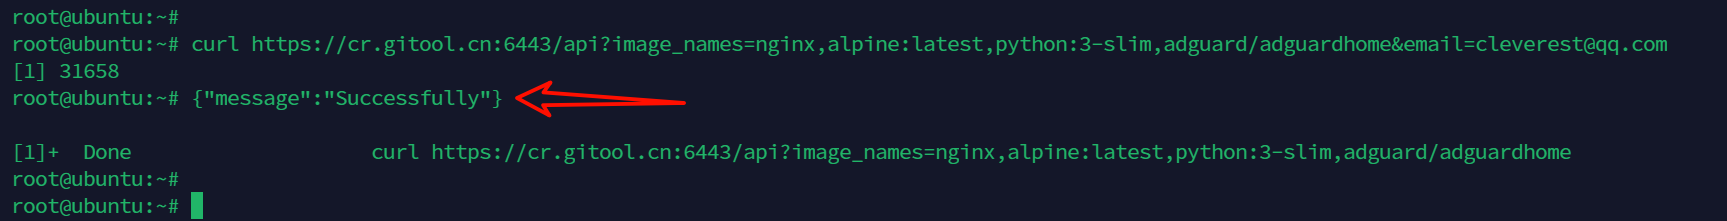
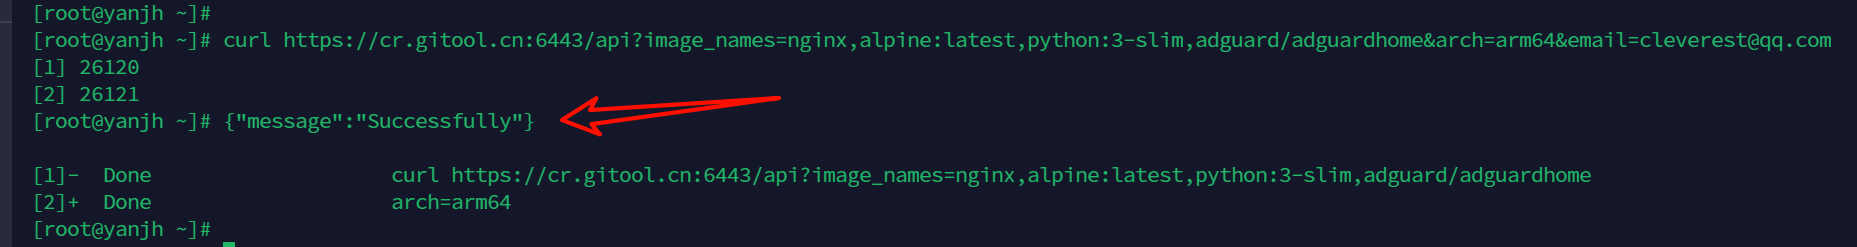
新增指定镜像系统架构拉取功能

diff --git a/README.md b/README.md
@@ -8,7 +8,8 @@
 
 - **自动同步镜像：** 流水线任务根据 **`docs/images.txt`** 文件中的镜像列表，自动将 Docker 镜像同步到阿里云 ACR。
 - **定时触发或文件修改触发：** 可以通过定时任务或者在提交时修改了 **`docs/images.txt`** 来触发流水线。
-- **邮件通知：** 可选功能，流水线执行完成后，发送同步结果，通知指定的收件人。
+- **指定镜像架构拉取：**可选功能，创建 **`docs/platform.txt`** 同步指定系统的镜像。
+- **邮件通知：** 可选功能，流水线执行完成后，创建 **`docs/email.txt`** 发送同步结果，通知指定的收件人。
 
 ## 2 使用方法
 
@@ -52,34 +53,61 @@ adguard/adguardhome
 python:3-slim
 ```
 
-### 2.4 运行流水线
+同步完成后，有镜像前缀空间的，将会被删除，例如 **`adguard/adguardhome`** → **`adguardhome`** ，示例如下：
+
+```makefile
+registry.cn-shanghai.aliyuncs.com/dockerip/nginx:latest
+registry.cn-shanghai.aliyuncs.com/dockerip/adguardhome:latest
+registry.cn-shanghai.aliyuncs.com/dockerip/python:3-slim
+```
+
+### 2.4 指定镜像系统架构 
+
+默认 **`docs/platform.txt`** 文件不存在时，镜像的架构为 **`amd64`** ，同步完成后的镜像不带系统架构名称。
+
+如果创建了 **`docs/platform.txt`** 文件（**仅支持填写单个架构**），并且填写系统架构，例如： **`386`** **`amd64`** **`arm64`** **`arm/v5`** **`arm/v7`** ，将在镜像名称后加上系统架构名称，示例如下：
+
+```makefile
+registry.cn-shanghai.aliyuncs.com/dockerip/redis-arm-v5:latest
+registry.cn-shanghai.aliyuncs.com/dockerip/nginx-arm64:latest
+```
+
+### 2.5 运行流水线
 
 每次提交或定时触发后，GitHub Actions 将自动运行流水线。你可以在 Actions 标签页查看流水线的执行情况和日志。
 
-### 2.5 查看同步结果
+### 2.6 查看同步结果
 
-如果设置了邮件通知，当流水线执行完成后，将会发送邮件到指定的收件人，包含同步完成的镜像地址列表。
+如果创建了 **`docs/email.txt`** 文件（**仅支持填写单个邮箱地址**），并且填写接受人的邮箱地址，当流水线执行完成后，将会发送邮件到指定的收件人，包含同步完成的镜像地址列表。
 
-
+```makefile
+cleverest@qq.com
+```
 
 ## 3 推荐使用
 
-使用口接口请求，主要作用是为打不开 **GitHub** 的小伙伴提供一个便捷的方式，随时随地来同步 Docker 镜像。
+使用接口请求，主要作用是为打不开 **GitHub** 的小伙伴提供一个便捷的方式，随时随地来同步 Docker 镜像。
 
 ### 3.1 使用示例
 
 ```makefile
-# 不接收邮件通知请求如下：
+# 1.不接收邮件通知，请求如下：
 https://cr.gitool.cn:6443/api?image_names=镜像地址1,镜像地址2,镜像地址3
 
-# 接收邮件通知，请求如下：
+# 2.不接收邮件通知请求，并且指定镜像架构，请求如下：
+https://cr.gitool.cn:6443/api?image_names=镜像地址1,镜像地址2,镜像地址3&arch=系统架构(arm64、arm/v7)
+
+# 3.接收邮件通知，请求如下：
 https://cr.gitool.cn:6443/api?image_names=镜像地址1,镜像地址2,镜像地址3&email=你的邮箱
+
+# 4.接收邮件通知，并且指定镜像架构，请求如下：
+https://cr.gitool.cn:6443/api?image_names=镜像地址1,镜像地址2,镜像地址3&arch=arm/v7&email=你的邮箱
 ```
 
 > 终端使用 **`curl`** 请求
 
 ```bash
-curl https://cr.gitool.cn:6443/api?image_names=nginx,alpine:latest,python:3-slim,adguard/adguardhome&email=cleverest@qq.com
+curl https://cr.gitool.cn:6443/api?image_names=nginx,alpine:latest,python:3-slim,adguard/adguardhome&arch=arm64&email=cleverest@qq.com
 ```
 
 ![](./docs/imgsrc/curl_get.png)
@@ -103,6 +131,12 @@ curl https://cr.gitool.cn:6443/api?image_names=nginx,alpine:latest,python:3-slim
   - 示例值：**`nginx,alpine:latest,python:3-slim,adguard/adguardhome`**
   - 解释：这个参数可以包含镜像名和标签（如 **`alpine:latest`**），亦可不包含镜像标签（如 **`adguard/adguardhome`**），不含标签时，默认为 **`latest`**
 
+- **`arch=` 参数**:
+
+  指定镜像的系统架构。
+
+  - 示例值： **`386`** **`amd64`** **`arm64`** **`arm/v5`** **`arm/v7`** 
+
 - **`email=` 参数**:
 
   指定接收通知的邮箱地址。
@@ -113,7 +147,7 @@ curl https://cr.gitool.cn:6443/api?image_names=nginx,alpine:latest,python:3-slim
 ## 4 注意事项
 
 - 确保 **`docs/images.txt`** 中的镜像名与标签是正确的，并且已经存在于 Docker Hub 或其他可以访问的 Docker Registry。
-- 对于Api接口 **`image_names`**  **`email`** 参数，确保镜像名称、镜像标签以及邮箱的格式正确，以免导致请求无法正确处理。
+- 对于Api接口 **`image_names`** **`arch`** **`email`** 参数，确保镜像名称、镜像标签、系统架构以及邮箱的格式正确，以免导致请求无法正确处理。
 - 请勿恶意滥用，谢谢。
 
 ------
